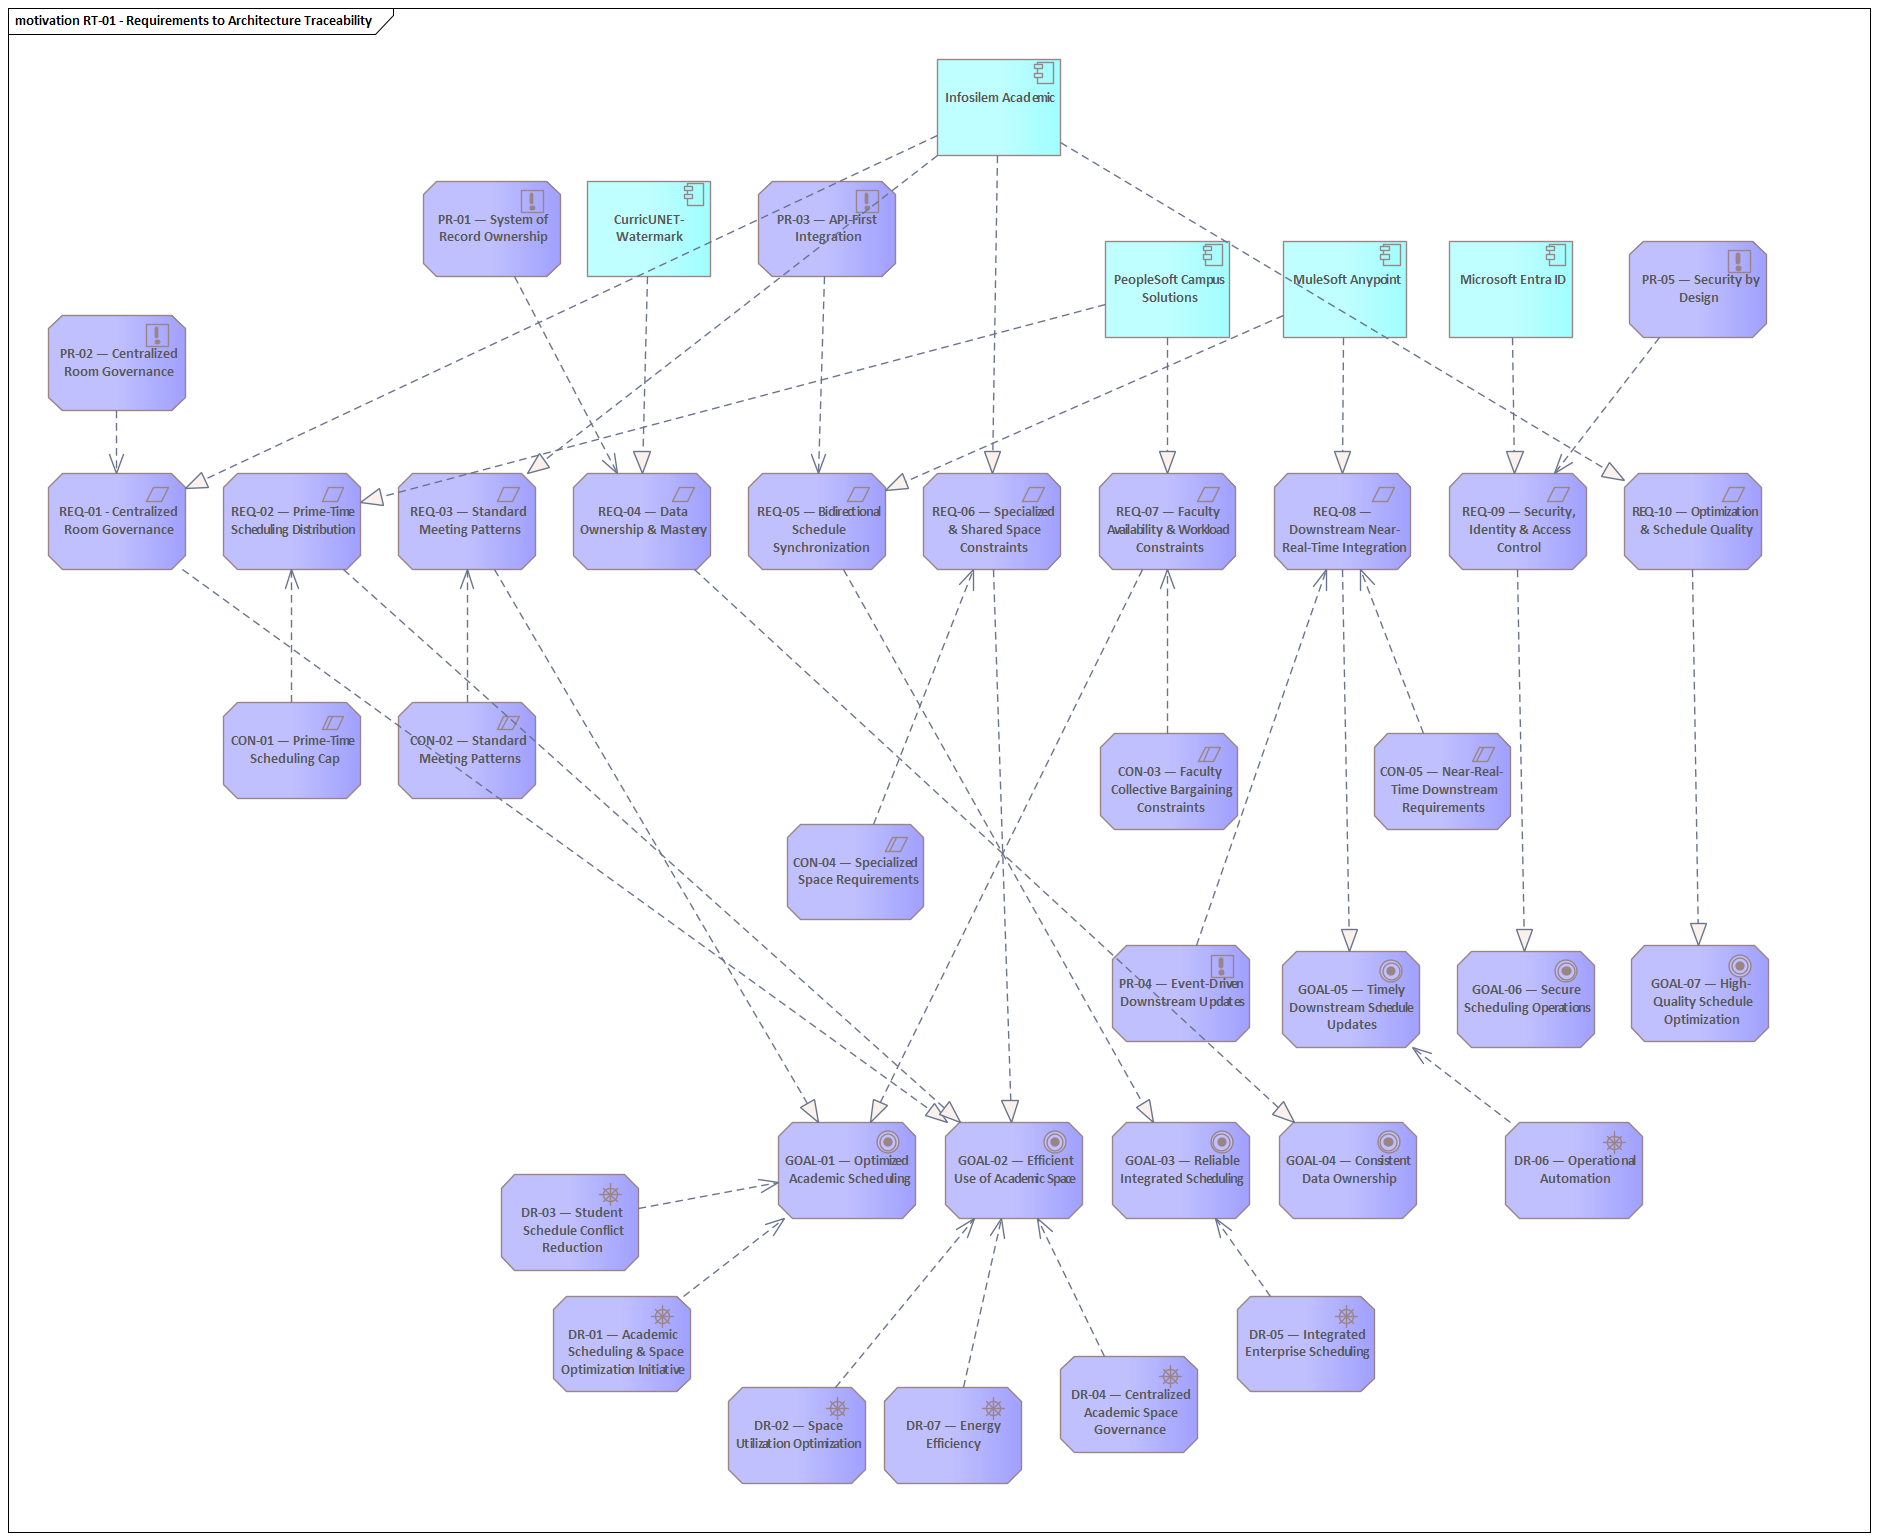
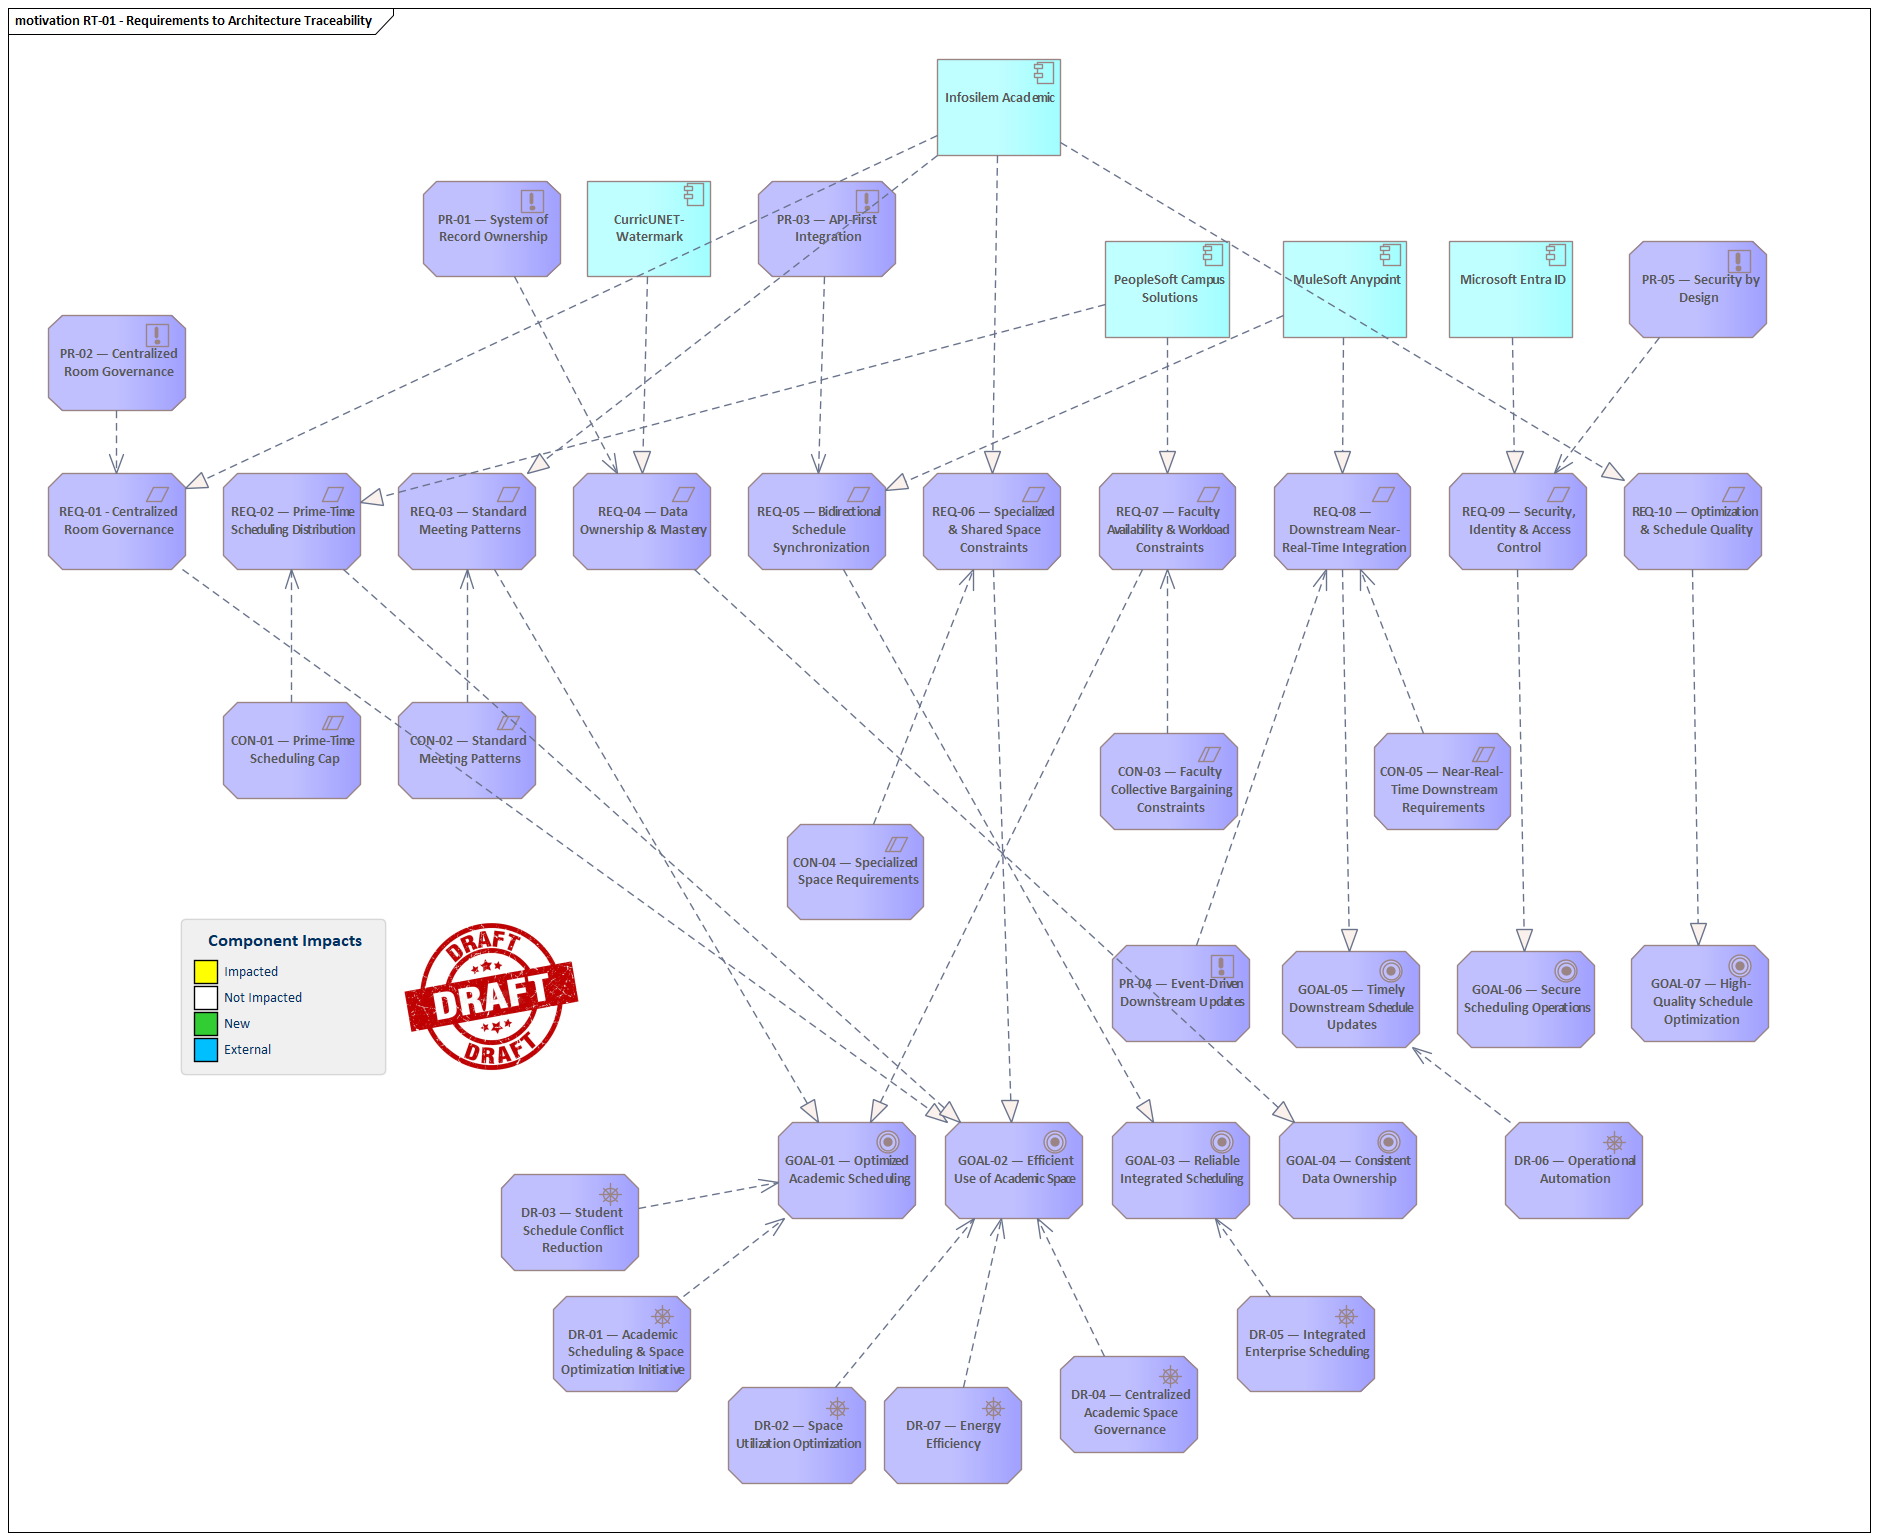
diagram updates

Changed region(s): [[0.2162, 0.5922, 0.3088, 0.7169], [0.0927, 0.5922, 0.1853, 0.6857]]

diff --git a/uofa-architecture.html b/uofa-architecture.html
@@ -2075,7 +2075,7 @@ Published Schedule
           MuleSoft does not independently decide the business outcome of a
           conflict. The appropriate business process and authoritative system
           determine the valid result; MuleSoft distributes and records that
-          result.
+          result. (ie avoid placing business logic into middleware!)
         </p>
       </div>
 
